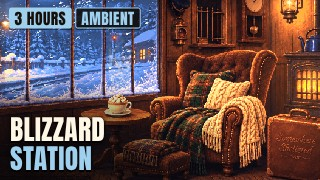
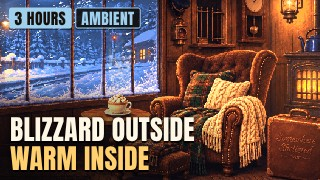
Stationmaster ambience thumbnails: BLIZZARD OUTSIDE / WARM INSIDE
The title shrinks a little before it moves, so it stays bottom-left clear of the hot chocolate, and
it never overlaps the badges.

Claude-Session: https://claude.ai/code/session_01VuAxVVk4gzvV4vcstzfxY7

Changed region(s): [[0.0312, 0.6389, 0.625, 0.9722]]

diff --git a/fox-scenes/tools/thumb.html b/fox-scenes/tools/thumb.html
@@ -32,7 +32,7 @@ bg.style.backgroundImage = `url(${C.bg})`; bg.style.backgroundSize = `${1920 * s
 const [br, sa, co] = C.boost || [1, 1, 1]; bg.style.filter = `brightness(${br}) saturate(${sa}) contrast(${co})`;
 const lines = C.lines || [];
 if (!lines.length) { document.getElementById('title').remove(); document.getElementById('shade').remove(); }
-else { document.getElementById('l1').textContent = lines[0]; document.getElementById('l2').textContent = lines[1] || ''; document.getElementById('l2').style.color = C.accent; }
+else { document.getElementById('l1').textContent = lines[0]; document.getElementById('l2').textContent = lines[1] || ''; document.getElementById('l2').style.color = C.line2 || C.accent; }
 document.getElementById('badge').style.background = C.accent; document.getElementById('badge').textContent = C.badge;
 const kind = document.getElementById('kind'); if (C.kind) { kind.textContent = C.kind; kind.style.color = C.accent; kind.style.borderColor = C.accent; } else kind.remove();
 // keep the name inside the left 58% of the frame, whatever its length
@@ -42,8 +42,14 @@ const hits = el => { const r = el.getBoundingClientRect(); return keep.some(([x0
 const SHADE = { bl: '120px 720px', br: '1160px 720px', tr: '1160px 0px' };
 document.fonts.ready.then(() => {
   if (document.getElementById('title')) {
-    const w = t.getBoundingClientRect().width; if (w > max) t.style.fontSize = Math.floor(110 * max / w) + 'px';
-    const where = ['bl', 'br', 'tr'].find(p => { t.className = p; return !hits(t); });
+    const w = t.getBoundingClientRect().width, size = w > max ? Math.floor(110 * max / w) : 110;
+    const tags = document.getElementById('tags').getBoundingClientRect();
+    const clear = () => { const r = t.getBoundingClientRect(); return !hits(t) && !(r.left < tags.right && r.right > tags.left && r.top < tags.bottom && r.bottom > tags.top); };
+    let where = null;      /* bottom-left if it fits there (a little smaller if need be), else bottom-right, else top-right; never over the badges */
+    for (const p of ['bl', 'br', 'tr']) {
+      for (const f of [1, 0.92, 0.85, 0.78]) { t.className = p; t.style.fontSize = Math.floor(size * f) + 'px'; if (clear()) { where = p; break; } }
+      if (where) break;
+    }
     if (!where) document.body.dataset.blocked = 'the name';
     else { t.className = where; document.body.dataset.where = where;
       document.getElementById('shade').style.background = `radial-gradient(ellipse 900px 430px at ${SHADE[where]}, rgba(6, 5, 8, .93) 0%, rgba(6, 5, 8, .72) 45%, rgba(6, 5, 8, 0) 100%)`; }

diff --git a/fox-scenes/tools/thumb.js b/fox-scenes/tools/thumb.js
@@ -19,8 +19,10 @@ const KINDS = { lofi: { kind: 'LO-FI', accent: '#ffcf70' }, ambience: { kind: 'A
   // what the words must never cover (the hot chocolate), in layout pixels in scene.json, in the 1920x1080 frame here
   const keep = (V.thumbnail_keep_clear || T.keep_clear || []).map(b => b.map(v => v * 1.5));
   const H = (C.mix[type] || {}).hours || C.hours;      // a type can have its own length (ambience runs all night)
-  const base = { bg: 'file://' + path.resolve(frame), keep, ...KINDS[type], badge: `${H} HOUR${H === 1 ? '' : 'S'}`, boost: T.boost || [1.12, 1.12, 1.04] };
-  const versions = { a: { crop: [0, 0, 1920], lines: T.lines }, b: { crop: close, lines: T.lines }, c: { crop: close, lines: [] } };
+  const line2 = V.thumbnail_line2_colour || null;
+  const base = { line2, bg: 'file://' + path.resolve(frame), keep, ...KINDS[type], badge: `${H} HOUR${H === 1 ? '' : 'S'}`, boost: T.boost || [1.12, 1.12, 1.04] };
+  const lines = V.thumbnail_lines || T.lines;      // a type can say its own words (ambience sells the feeling: blizzard outside, warm inside)
+  const versions = { a: { crop: [0, 0, 1920], lines }, b: { crop: close, lines }, c: { crop: close, lines: [] } };
   fs.mkdirSync(outDir, { recursive: true });
   const b = await chromium.launch();
   for (const [v, cfg] of Object.entries(versions)) {
